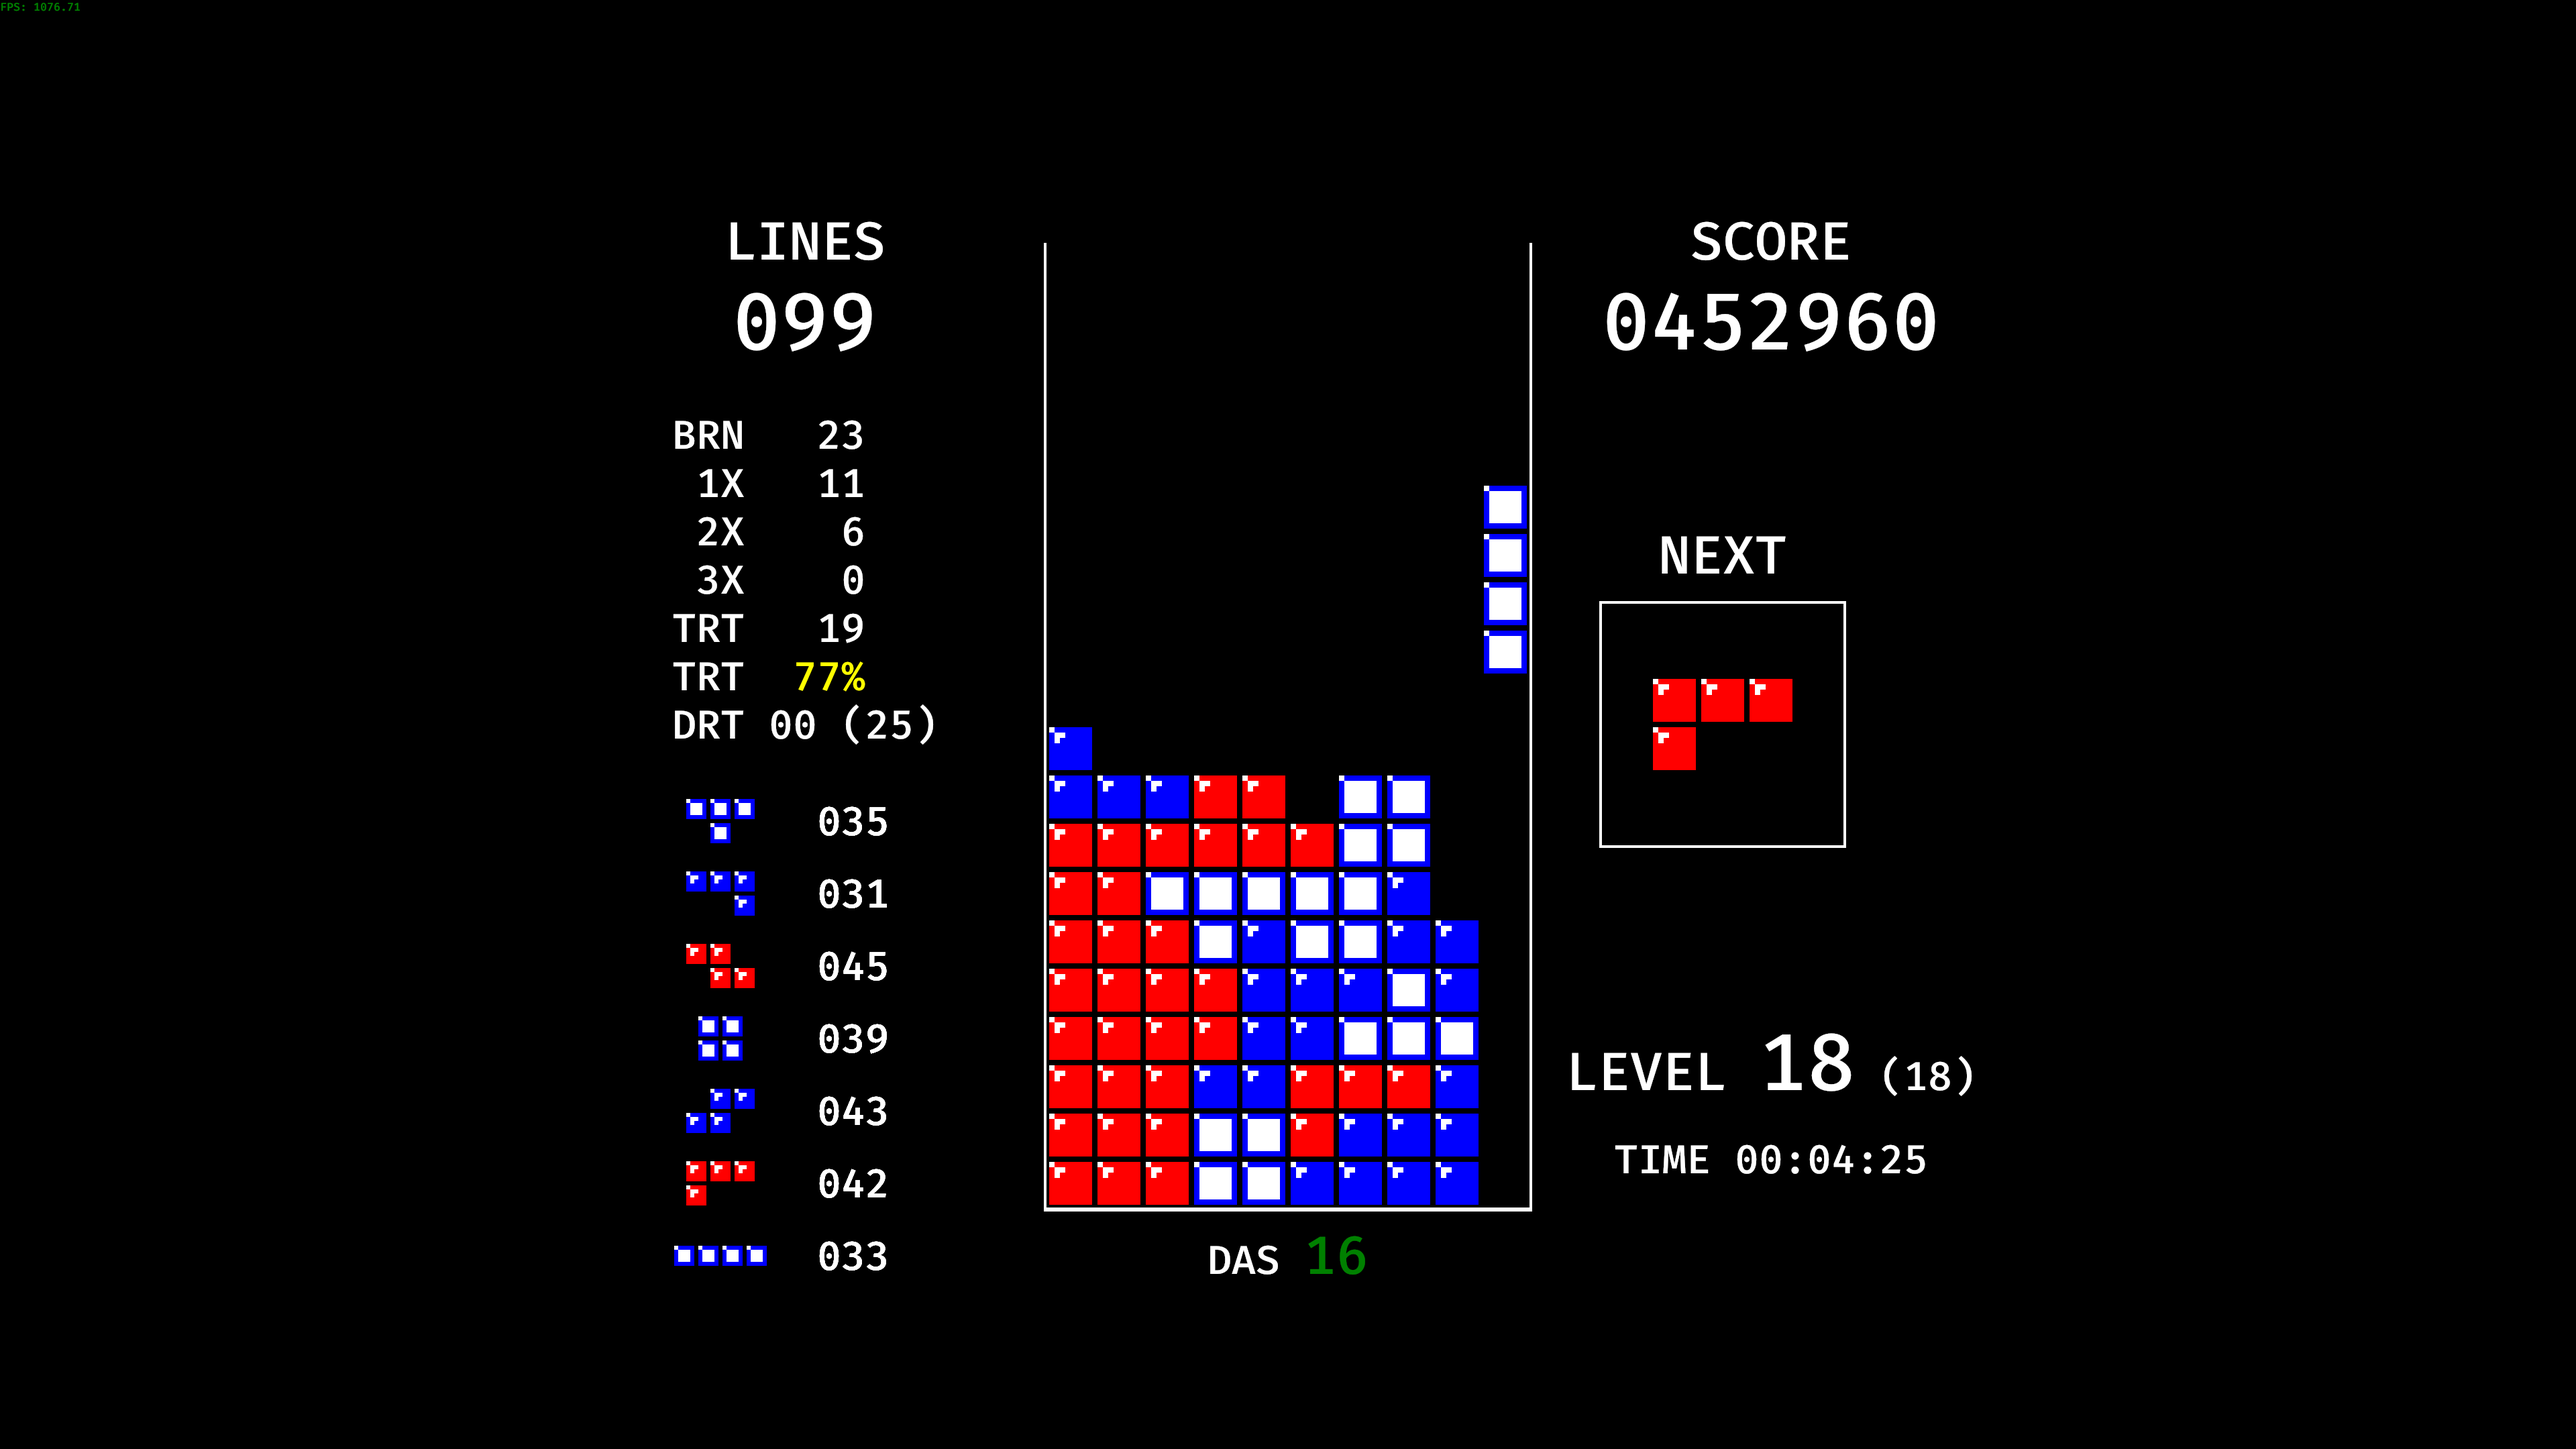
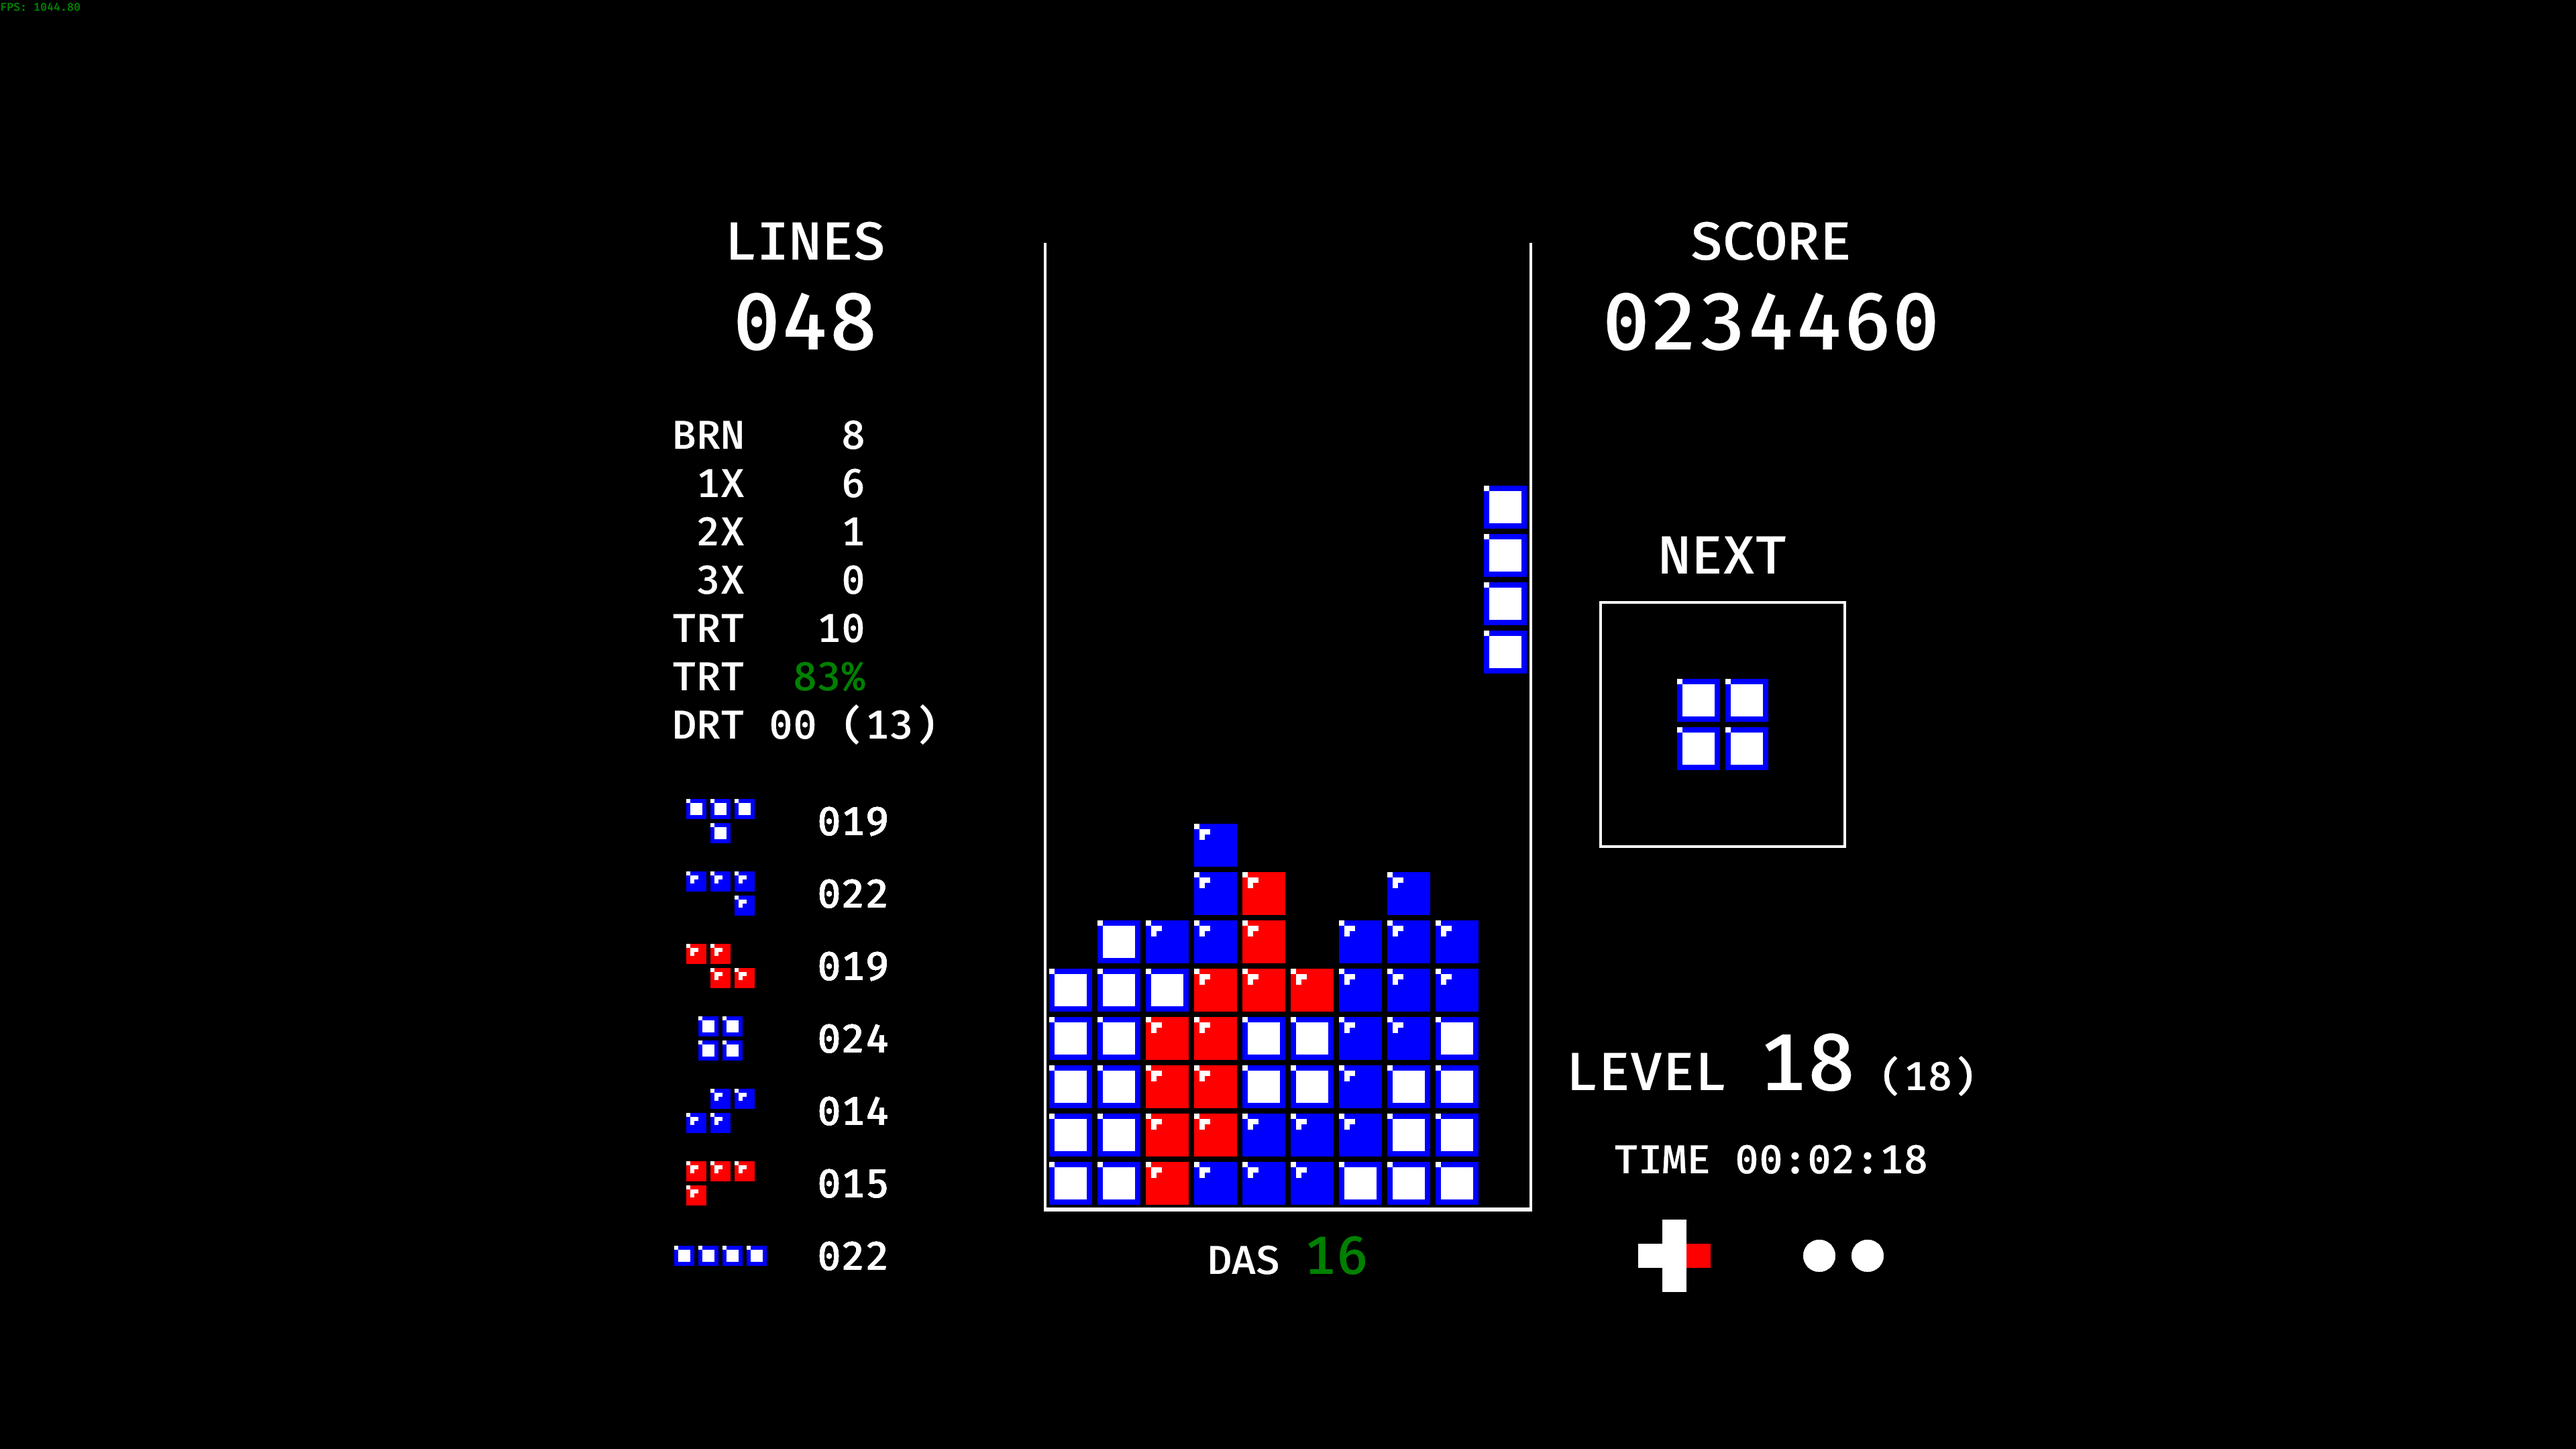
Update readme and screenshot.

diff --git a/README.md b/README.md
@@ -3,7 +3,7 @@
 [![Build](https://github.com/Ramirisu/tetris/actions/workflows/build.yml/badge.svg)](https://github.com/Ramirisu/tetris/actions/workflows/build.yml)
 [![dependency status](https://deps.rs/repo/github/Ramirisu/tetris/status.svg)](https://deps.rs/repo/github/Ramirisu/tetris)
 
-A Classic Tetris (NES Tetris) clone written in BEVY/RUST.
+Classic Tetris (NES Tetris) written in BEVY/RUST.
 
 ![gameplay](https://github.com/Ramirisu/tetris/blob/main/docs/gameplay.png)
 
@@ -16,6 +16,7 @@ A Classic Tetris (NES Tetris) clone written in BEVY/RUST.
   - [x] Level 39 Super Kill Screen
   - [x] Piece Distribution
   - [x] Statistics
+  - [x] Display Inputs
   - [x] Sound Effects
   - [ ] Musics
 
@@ -55,7 +56,7 @@ A Classic Tetris (NES Tetris) clone written in BEVY/RUST.
 | ------: | :-------------------- |
 |     Off |                       |
 | Classic | Show next piece only. |
-|  Modern | Show next 5 pieces.   |
+|  Modern | Show next `5` pieces. |
 
 
 ## Keybindings
